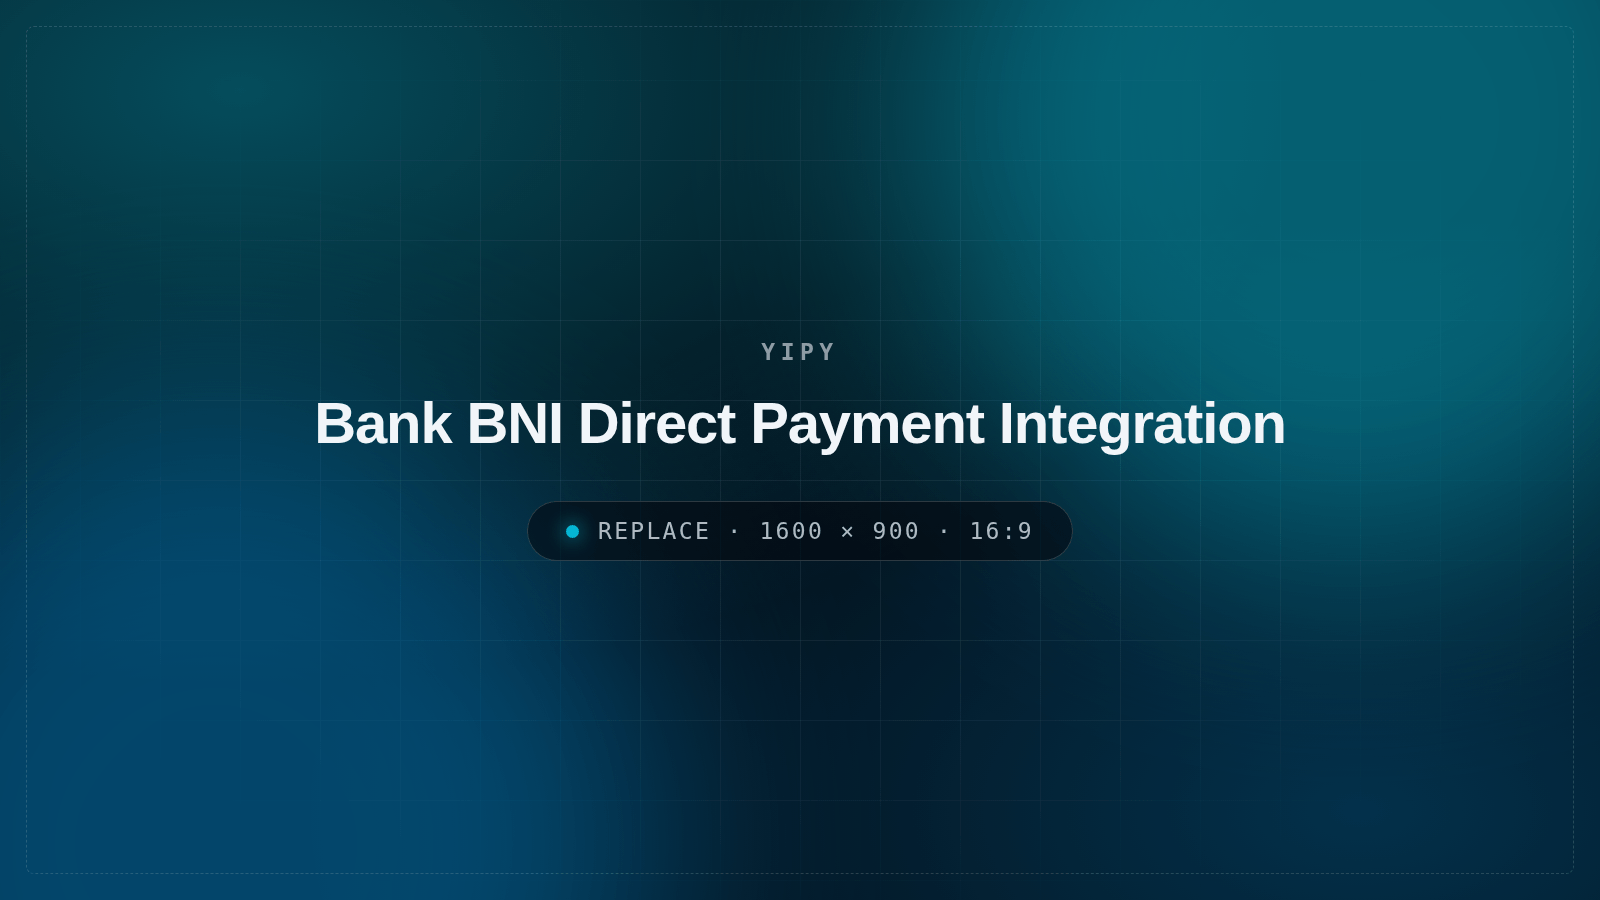
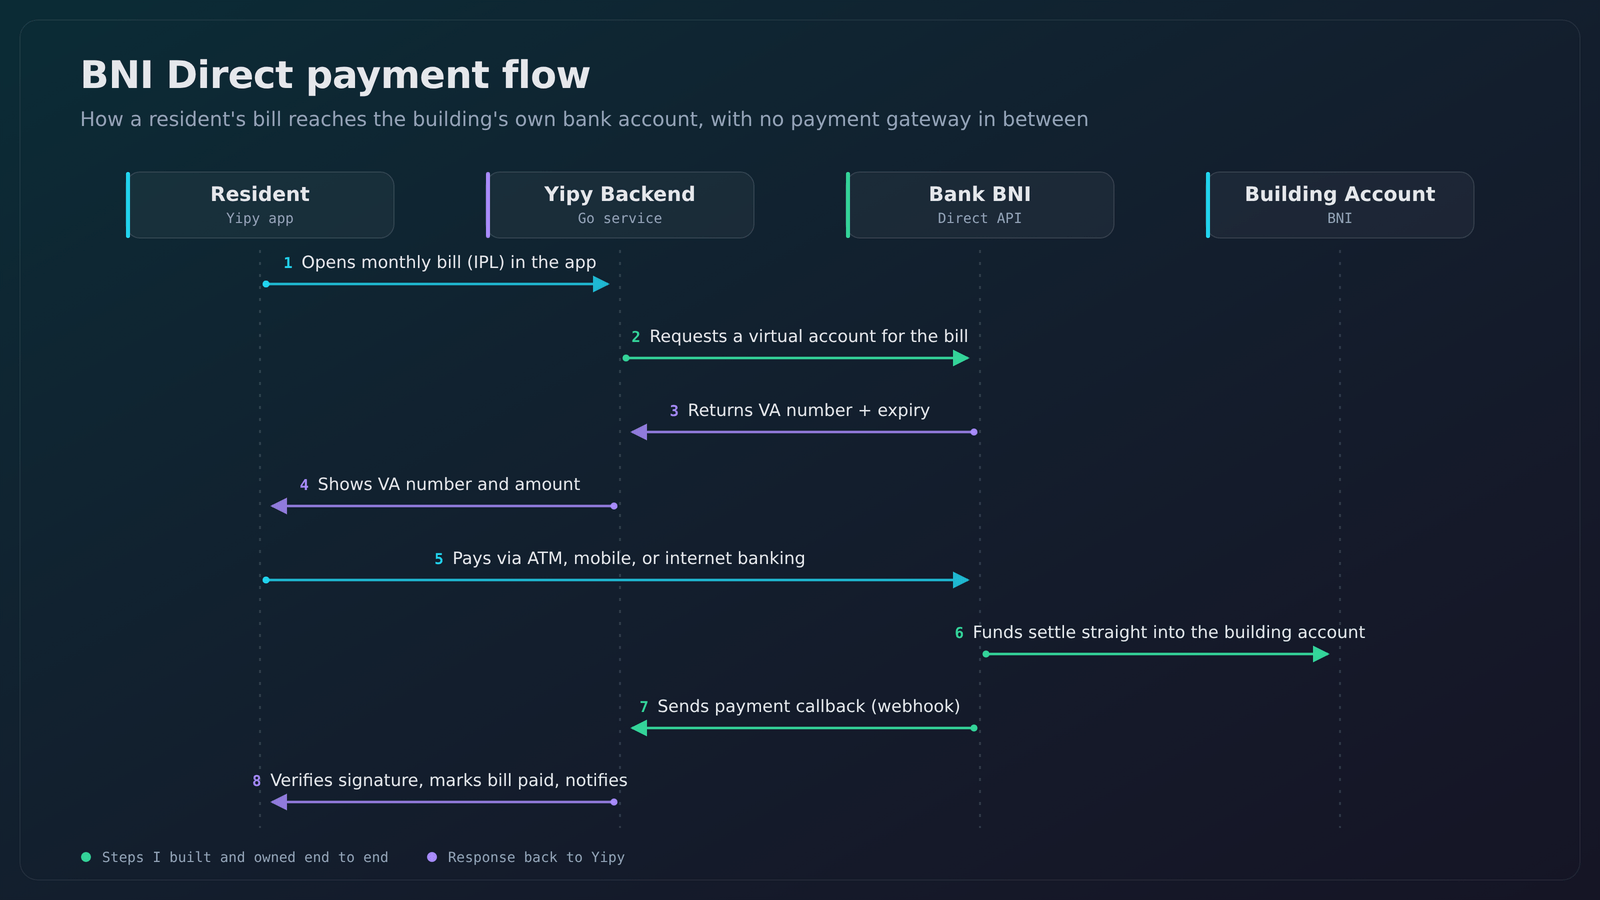
Distinguish diagrams from screenshots, and draw the bank integration flows
Backend-only work has no screen of its own, and several of these systems hold
client data that should not be published. Projects now declare what their cover
actually is, so the site can present each one honestly instead of implying a UI
that either does not exist or was built by someone else.

Adds a `visual` field with three values. Diagrams render uncropped on a flat
background on the project page and carry a caption naming what the reader is
looking at. Cards fall back to the gradient cover for diagrams, since a dense
diagram is unreadable at thumbnail size.

Replaces two placeholders with real artwork: a sequence diagram for the BNI
Direct payment flow, and an architecture diagram showing how BSI Direct plugs
into the payment interface the BNI work introduced.

diff --git a/src/data/projects.ts b/src/data/projects.ts
@@ -39,6 +39,11 @@ export type Project = {
   highlights: string[];
   stack: string[];
   links?: ProjectLink[];
+  /**
+   * What the cover actually is. Diagrams are shown uncropped on a flat
+   * background; screenshots and photos fill the frame.
+   */
+  visual?: "screenshot" | "diagram" | "photo";
   image?: string;
   gallery?: string[];
   /** Used for the gradient fallback cover. */
@@ -83,6 +88,7 @@ export const projects: Project[] = [
       "Removed third-party gateway fees for the building.",
     ],
     stack: ["Go", "REST API", "Bank API", "Webhooks"],
+    visual: "diagram",
     image: "/projects/bni-direct.png",
     accent: "cyan",
     featured: true,
@@ -113,6 +119,7 @@ export const projects: Project[] = [
       "Expanded Yipy's payment coverage to a second major Indonesian bank.",
     ],
     stack: ["Go", "REST API", "Bank API", "Webhooks"],
+    visual: "diagram",
     image: "/projects/bsi-direct.png",
     accent: "cyan",
   },
@@ -144,6 +151,7 @@ export const projects: Project[] = [
       "Gave management visibility into facility entry and exit.",
     ],
     stack: ["Go", "ZKTeco", "REST API", "Access Control"],
+    visual: "photo",
     image: "/projects/gate-card-membership.png",
     accent: "violet",
     featured: true,
@@ -176,6 +184,7 @@ export const projects: Project[] = [
       "Worked alongside a second backend engineer who handled the MINNO server link.",
     ],
     stack: ["Go", "IoT", "OTP", "Push Notifications"],
+    visual: "photo",
     image: "/projects/yipybox.png",
     gallery: ["/projects/yipybox-2.png", "/projects/yipybox-3.png"],
     accent: "emerald",
@@ -209,6 +218,7 @@ export const projects: Project[] = [
       "Battery-powered water meters and mains-powered electricity meters on one integration.",
     ],
     stack: ["Go", "LoRa", "IoT", "REST API"],
+    visual: "photo",
     image: "/projects/smart-meters.png",
     accent: "emerald",
   },
@@ -239,6 +249,7 @@ export const projects: Project[] = [
       "Enforced at the API layer, not just in the UI.",
     ],
     stack: ["Go", "RBAC", "REST API"],
+    visual: "diagram",
     image: "/projects/module-access-revamp.png",
     accent: "amber",
   },
@@ -271,6 +282,7 @@ export const projects: Project[] = [
       "QR code registration and check-in.",
     ],
     stack: ["Go", "Xendit", "QR Code", "Email Blast", "REST API"],
+    visual: "screenshot",
     image: "/projects/ies-2026.png",
     accent: "rose",
     featured: true,
@@ -295,6 +307,7 @@ export const projects: Project[] = [
     outcomes: ["Door check-in handled by QR scan."],
     highlights: ["QR code based check-in.", "CMS for user management."],
     stack: ["Go", "QR Code", "CMS"],
+    visual: "screenshot",
     image: "/projects/iits-2025.png",
     accent: "rose",
   },
@@ -318,6 +331,7 @@ export const projects: Project[] = [
     outcomes: ["The microsite team can publish content without backend changes."],
     highlights: ["Microsite content API.", "QR code registration and scanning."],
     stack: ["Go", "QR Code", "CMS", "REST API"],
+    visual: "screenshot",
     image: "/projects/iits-2026.png",
     accent: "rose",
   },
@@ -341,6 +355,7 @@ export const projects: Project[] = [
     outcomes: ["Both event categories are handled by one backend with separate flows."],
     highlights: ["Two registration tracks in one system.", "Full content CMS."],
     stack: ["Go", "CMS", "REST API"],
+    visual: "screenshot",
     image: "/projects/smi-event.png",
     accent: "rose",
   },
@@ -374,6 +389,7 @@ export const projects: Project[] = [
       "Docker + Nginx deployment on a VPS.",
     ],
     stack: ["Go", "Next.js", "Tailwind CSS", "Docker", "Nginx"],
+    visual: "screenshot",
     image: "/projects/dmi-kuningan.png",
     accent: "violet",
   },
@@ -403,6 +419,7 @@ export const projects: Project[] = [
       "End-to-end ownership: backend, frontend, and deployment.",
     ],
     stack: ["Go", "Next.js", "Tailwind CSS", "Docker", "Nginx"],
+    visual: "screenshot",
     image: "/projects/gbb-portal.png",
     accent: "violet",
     featured: true,
@@ -436,6 +453,7 @@ export const projects: Project[] = [
       "Auction module for partner companies.",
     ],
     stack: ["Go", "Next.js", "PostgreSQL", "Docker"],
+    visual: "screenshot",
     image: "/projects/ecosolex-erp.png",
     accent: "amber",
   },
@@ -460,6 +478,7 @@ export const projects: Project[] = [
     outcomes: ["Alumni registered online and entered the event with a QR pass."],
     highlights: ["QR code entry passes.", "Random doorprize draw feature."],
     stack: ["Go", "Next.js", "Xendit", "QR Code"],
+    visual: "screenshot",
     image: "/projects/reuni-sman2-kuningan.png",
     accent: "amber",
   },
@@ -481,6 +500,7 @@ export const projects: Project[] = [
     ],
     highlights: ["Pharmacy management.", "Online doctor consultation.", "Medicine e-commerce."],
     stack: ["Go", "REST API"],
+    visual: "screenshot",
     image: "/projects/everhealth.png",
     accent: "emerald",
   },

diff --git a/src/app/projects/[slug]/page.tsx b/src/app/projects/[slug]/page.tsx
@@ -11,7 +11,11 @@ import { Footer } from "@/components/layout/Footer";
 import { PageBackdrop } from "@/components/layout/PageBackdrop";
 import { Badge } from "@/components/ui/Badge";
 import { Reveal } from "@/components/ui/Reveal";
-import { accentGradient, accentTone } from "@/components/sections/projectStyles";
+import {
+  accentTone,
+  coverFraming,
+  visualLabel,
+} from "@/components/sections/projectStyles";
 
 export const dynamicParams = false;
 
@@ -81,6 +85,9 @@ export default async function ProjectPage({ params }: PageProps<"/projects/[slug
   const prev = projects[(index - 1 + projects.length) % projects.length];
   const next = projects[(index + 1) % projects.length];
 
+  const cover = coverFraming(project);
+  const caption = visualLabel[project.visual ?? "screenshot"];
+
   const facts = [
     { label: "Organization", value: project.org },
     { label: "Role", value: project.role },
@@ -128,32 +135,41 @@ export default async function ProjectPage({ params }: PageProps<"/projects/[slug
             </Reveal>
 
             <Reveal delay={0.1} className="mt-10">
-              <div
-                className={`relative aspect-[21/9] w-full overflow-hidden rounded-3xl border border-white/10 bg-gradient-to-br ${accentGradient[project.accent]}`}
-              >
+              <figure>
+                <div
+                  className={`relative w-full overflow-hidden rounded-3xl border border-white/10 ${cover.detailContainer} ${
+                    cover.isDiagram ? "aspect-video" : "aspect-[21/9]"
+                  }`}
+                >
+                  {project.image ? (
+                    <Image
+                      src={project.image}
+                      alt={`${project.title} ${caption.toLowerCase()}`}
+                      fill
+                      priority
+                      sizes="(max-width: 1152px) 100vw, 1152px"
+                      className={cover.image}
+                    />
+                  ) : (
+                    <>
+                      <div className="grid-bg absolute inset-0" />
+                      <div className="absolute inset-x-0 bottom-0 flex items-end justify-between p-6 sm:p-8">
+                        <span className="font-mono text-xs uppercase tracking-widest text-white/70">
+                          {project.org}
+                        </span>
+                        <span className="font-mono text-xs text-white/50">
+                          {caption} coming soon
+                        </span>
+                      </div>
+                    </>
+                  )}
+                </div>
                 {project.image ? (
-                  <Image
-                    src={project.image}
-                    alt={`${project.title} screenshot`}
-                    fill
-                    priority
-                    sizes="(max-width: 1152px) 100vw, 1152px"
-                    className="object-cover"
-                  />
-                ) : (
-                  <>
-                    <div className="grid-bg absolute inset-0" />
-                    <div className="absolute inset-x-0 bottom-0 flex items-end justify-between p-6 sm:p-8">
-                      <span className="font-mono text-xs uppercase tracking-widest text-white/70">
-                        {project.org}
-                      </span>
-                      <span className="font-mono text-xs text-white/50">
-                        Screenshot coming soon
-                      </span>
-                    </div>
-                  </>
-                )}
-              </div>
+                  <figcaption className="mt-3 font-mono text-xs text-muted">
+                    {caption}
+                  </figcaption>
+                ) : null}
+              </figure>
             </Reveal>
 
             <div className="mt-16 grid gap-12 lg:grid-cols-3">

diff --git a/src/components/sections/Projects.tsx b/src/components/sections/Projects.tsx
@@ -8,7 +8,7 @@ import { ArrowUpRight } from "lucide-react";
 import { projectCategories, projects, type ProjectCategory } from "@/data/projects";
 import { Section } from "@/components/ui/Section";
 import { Badge } from "@/components/ui/Badge";
-import { accentGradient, accentTone } from "./projectStyles";
+import { accentTone, coverFraming, visualLabel } from "./projectStyles";
 
 type Filter = "All" | ProjectCategory;
 
@@ -59,7 +59,9 @@ export function Projects() {
 
       <motion.ul layout className="grid gap-5 sm:grid-cols-2 lg:grid-cols-3">
         <AnimatePresence mode="popLayout">
-          {visible.map((p) => (
+          {visible.map((p) => {
+            const cover = coverFraming(p);
+            return (
             <motion.li
               key={p.slug}
               layout
@@ -73,15 +75,17 @@ export function Projects() {
                 className="glass group flex h-full w-full flex-col overflow-hidden rounded-2xl text-left transition-colors hover:border-cyan-400/30"
               >
                 <div
-                  className={`relative h-36 w-full overflow-hidden bg-gradient-to-br ${accentGradient[p.accent]}`}
+                  className={`relative h-36 w-full overflow-hidden ${cover.cardContainer}`}
                 >
-                  {p.image ? (
+                  {p.image && cover.showImageOnCard ? (
                     <Image
                       src={p.image}
                       alt={`${p.title} screenshot`}
                       fill
                       sizes="(max-width: 640px) 100vw, (max-width: 1024px) 50vw, 33vw"
-                      className="object-cover transition-transform duration-500 group-hover:scale-105"
+                      className={`${cover.image} transition-transform duration-500 ${
+                        cover.isDiagram ? "p-2" : "group-hover:scale-105"
+                      }`}
                     />
                   ) : (
                     <>
@@ -89,6 +93,11 @@ export function Projects() {
                       <span className="absolute bottom-3 left-4 font-mono text-xs uppercase tracking-widest text-white/70">
                         {p.org}
                       </span>
+                      {p.visual ? (
+                        <span className="absolute bottom-3 right-4 font-mono text-[10px] uppercase tracking-widest text-white/50">
+                          {visualLabel[p.visual].split(" ")[0]}
+                        </span>
+                      ) : null}
                     </>
                   )}
                   <div className="absolute right-3 top-3 flex gap-2">
@@ -119,7 +128,8 @@ export function Projects() {
                 </div>
               </Link>
             </motion.li>
-          ))}
+            );
+          })}
         </AnimatePresence>
       </motion.ul>
     </Section>

diff --git a/src/components/sections/projectStyles.ts b/src/components/sections/projectStyles.ts
@@ -18,3 +18,36 @@ export const accentTone: Record<
   amber: "amber",
   rose: "rose",
 };
+
+/** Human label for the kind of visual a cover holds. */
+export const visualLabel: Record<
+  NonNullable<Project["visual"]>,
+  string
+> = {
+  screenshot: "Screenshot",
+  diagram: "Architecture diagram",
+  photo: "Photo of the deployed hardware",
+};
+
+/**
+ * Diagrams must not be cropped, so they sit uncropped on a flat background.
+ * Screenshots and photos fill the frame instead.
+ */
+export function coverFraming(project: Pick<Project, "visual" | "accent">) {
+  const isDiagram = project.visual === "diagram";
+  return {
+    isDiagram,
+    /** Project page: a diagram needs a flat backdrop so letterboxing is invisible. */
+    detailContainer: isDiagram
+      ? "bg-[#05070d]"
+      : `bg-gradient-to-br ${accentGradient[project.accent]}`,
+    /** Cards always keep the accent gradient, whether or not an image sits on top. */
+    cardContainer: `bg-gradient-to-br ${accentGradient[project.accent]}`,
+    image: isDiagram ? "object-contain" : "object-cover",
+    /**
+     * A dense diagram is unreadable at card size, so cards fall back to the
+     * gradient cover and the full diagram lives on the project page.
+     */
+    showImageOnCard: !isDiagram,
+  };
+}

diff --git a/README.md b/README.md
@@ -37,6 +37,25 @@ Key fields per project:
 | `image` / `gallery` | Cover and extra screenshots (optional). |
 | `links` | Demo or repository links (optional). |
 
+### What each project shows
+
+Not every project can honestly show a screenshot. A backend integration has no screen of its own, and several systems hold client data that should not be published. Each project therefore declares a `visual` in `src/data/projects.ts`:
+
+| `visual` | Meaning | How it renders |
+| --- | --- | --- |
+| `screenshot` | A real screen you built | Fills the frame, cropped to fit |
+| `diagram` | Architecture or flow diagram | Shown uncropped on the project page; cards fall back to the gradient cover |
+| `photo` | Photo of deployed hardware | Fills the frame, cropped to fit |
+
+Two diagrams are already real, not placeholders: `bni-direct.png` (payment sequence) and `bsi-direct.png` (shared payment architecture). Every other image is still a placeholder.
+
+Suggested plan for the rest:
+
+- **Screenshots** for the public-facing sites: DMI Kuningan, the SMAN 2 Kuningan reunion, and the public registration pages for IES 2026, IITS, and SMI.
+- **Hardware photos** for the IoT work: YipyBox, the Andara gate reader, and the smart meters.
+- **Diagrams** for backend-only work: the module and access control revamp still needs one.
+- **Redact first** if you use internal screens from GBB, Ecosolex, or the Yipy CMS. Replace real names and figures with sample data.
+
 ### Photos to prepare
 
 Placeholder images are already in place, wired into the data, and named exactly as the final files. Replace a file in place, keep the same name, and nothing else needs changing.
